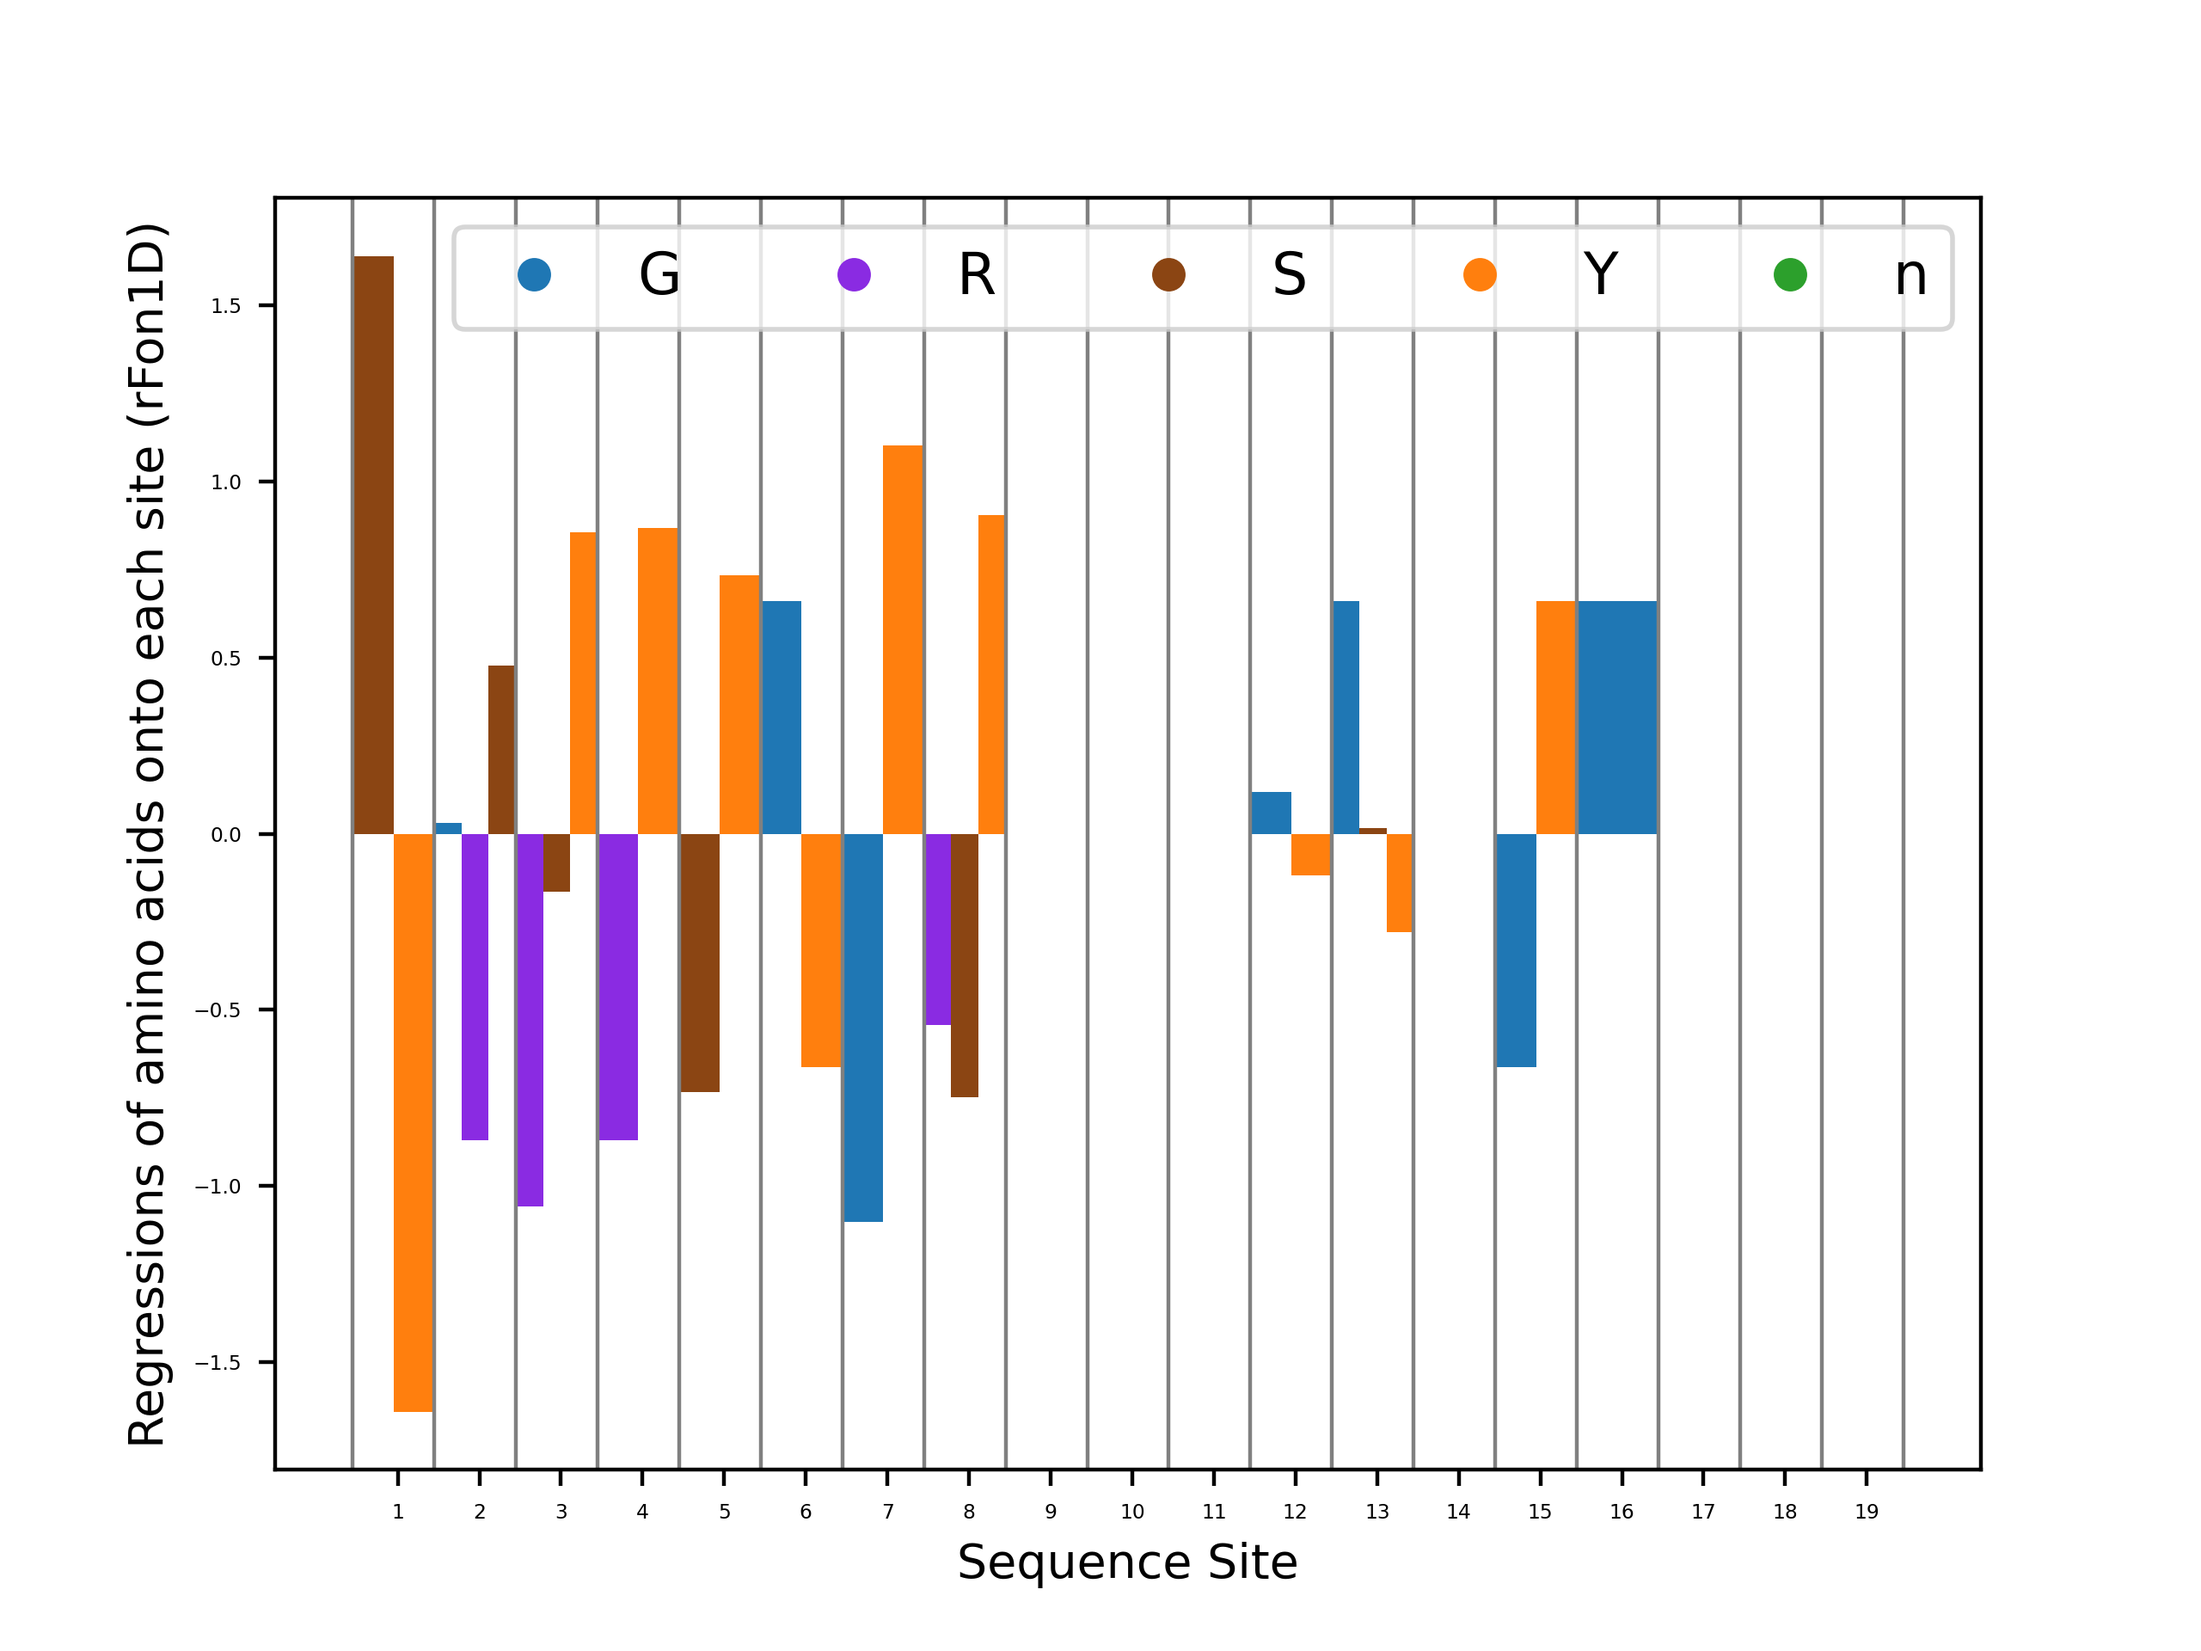
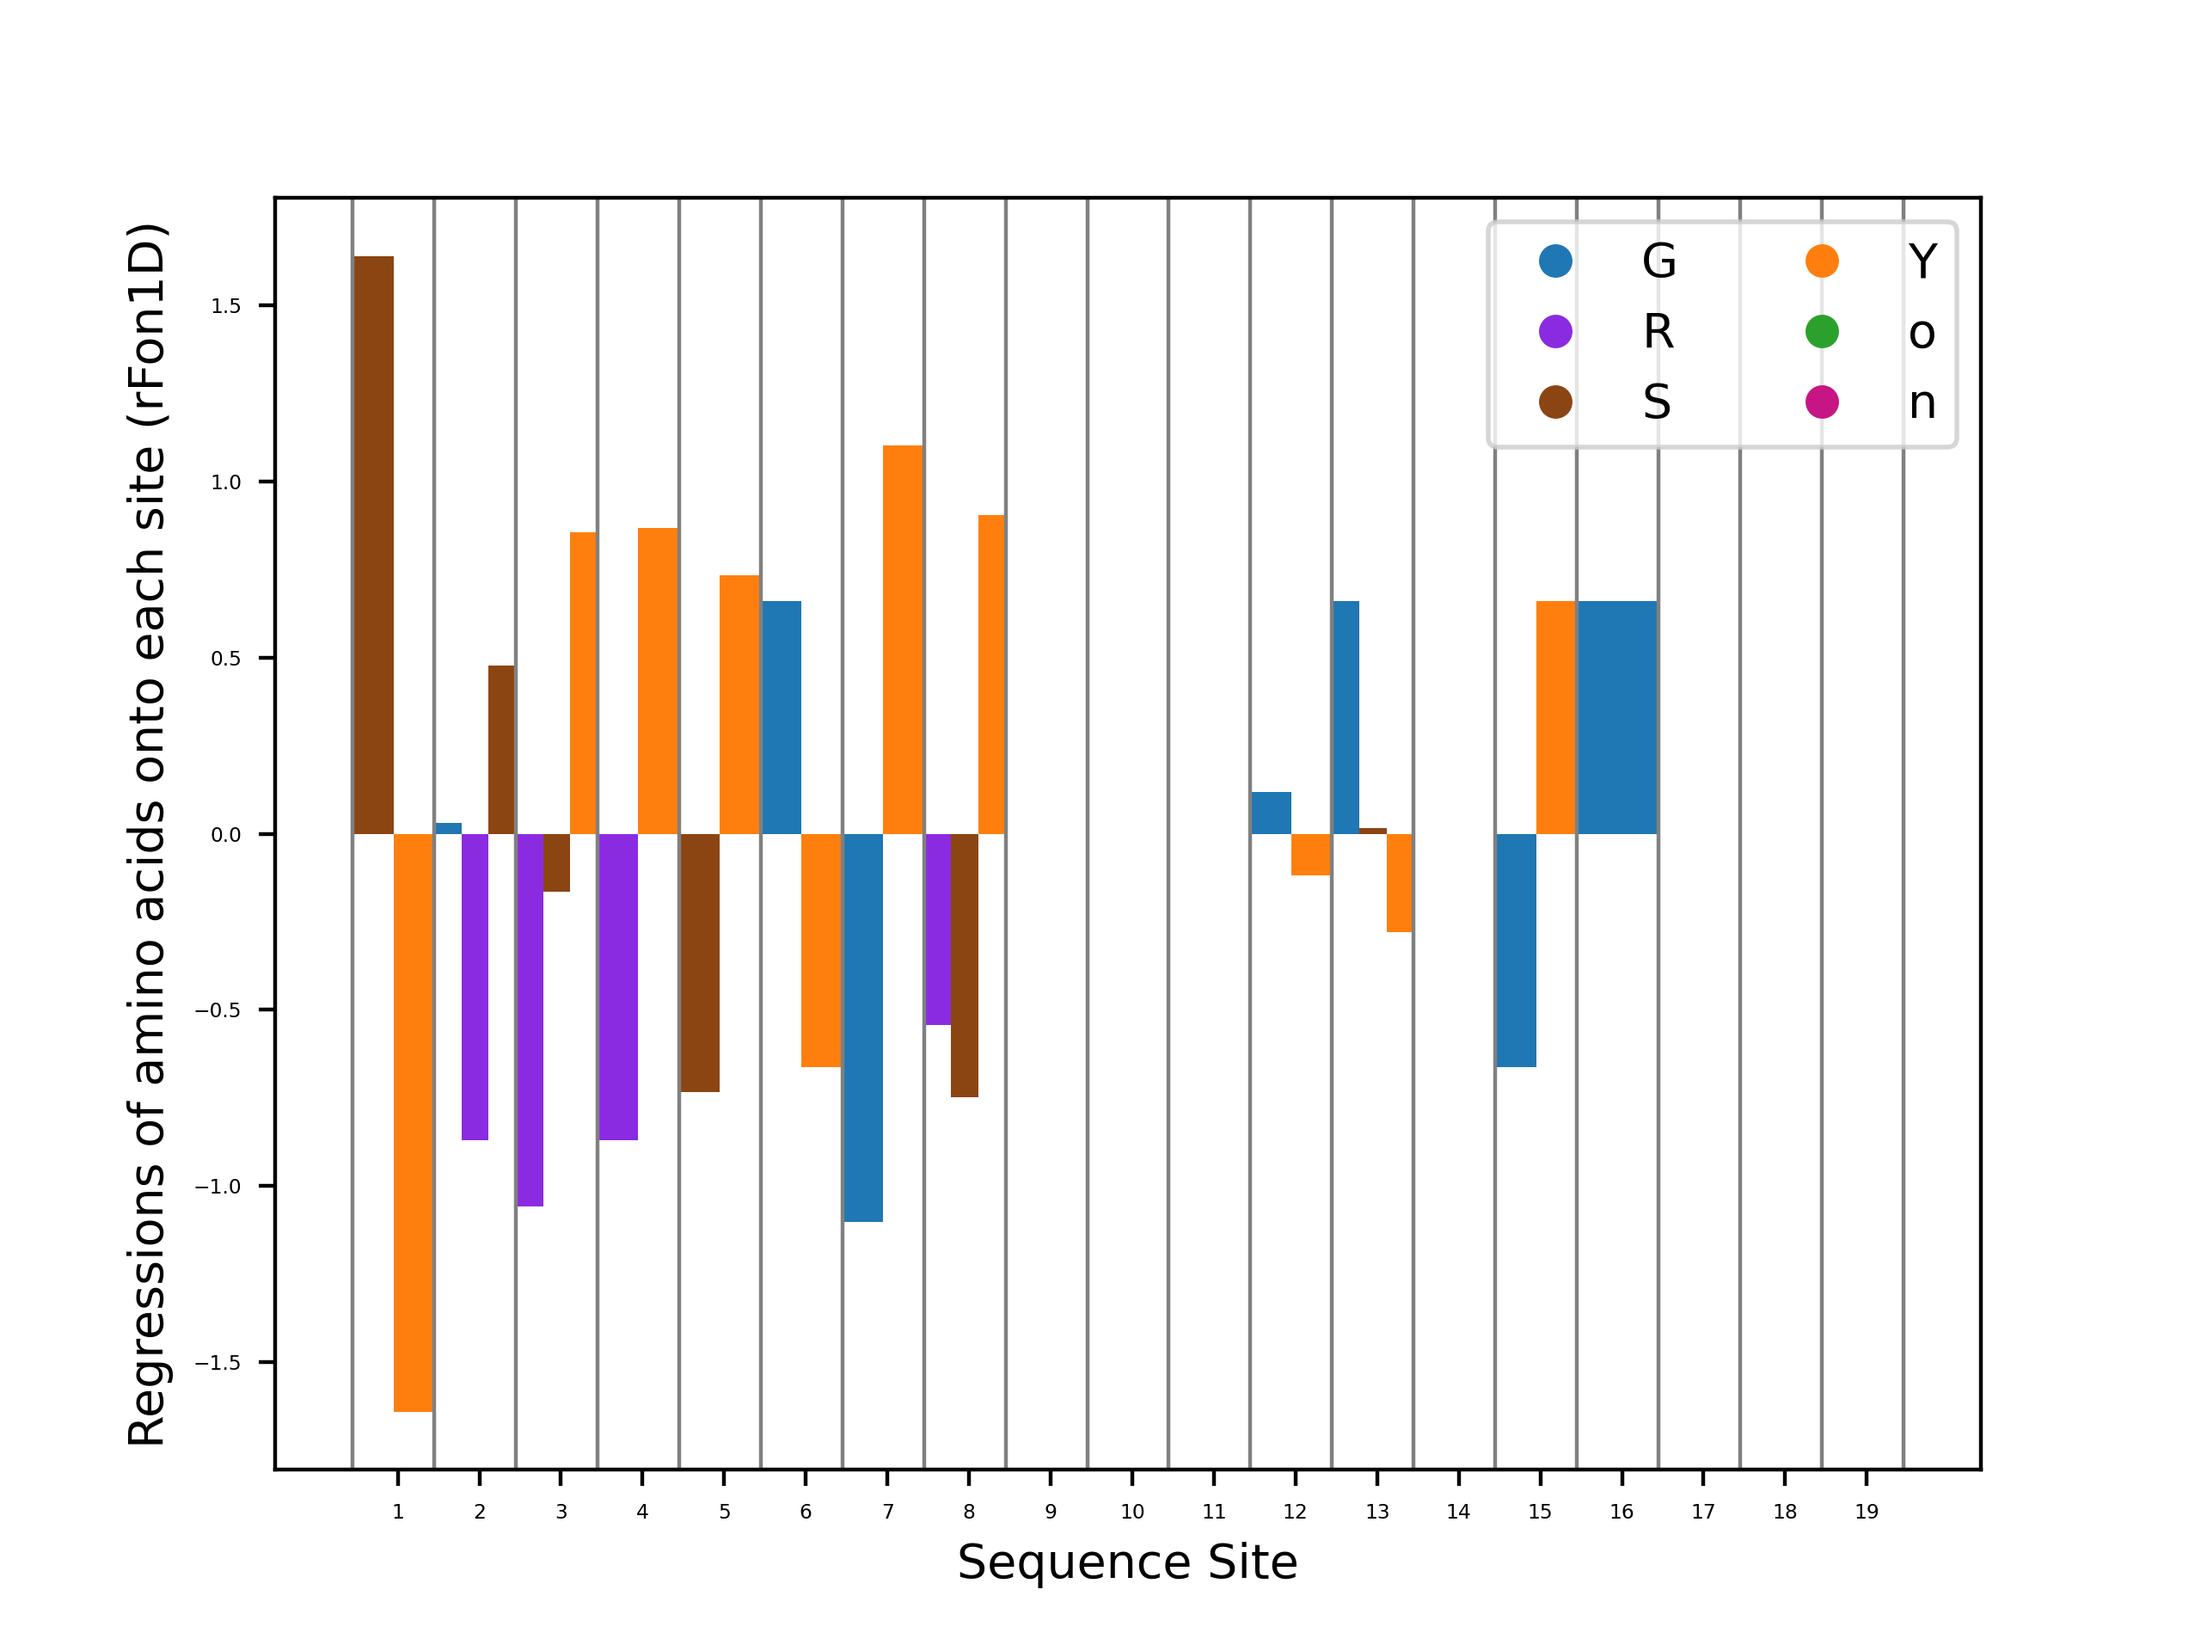
Fixed legend error

Changed region(s): [[0.3438, 0.125, 0.9062, 0.2812], [0.2188, 0.125, 0.3125, 0.2188]]

diff --git a/ortho_seq_code/orthogonal_polynomial.py b/ortho_seq_code/orthogonal_polynomial.py
@@ -962,7 +962,7 @@ def orthogonal_polynomial(
         col_len = len(colors)
         alpb_d = dict()
         for i in num_dm:
-            if any(i != 0 for i in dim_aa[i]):
+            if any(i != 0 and i for i in dim_aa[i]):
                 alpb_d[i] = colors[i % col_len]
                 alpb_d[alphabets[i]] = alpb_d.pop(i)
 
